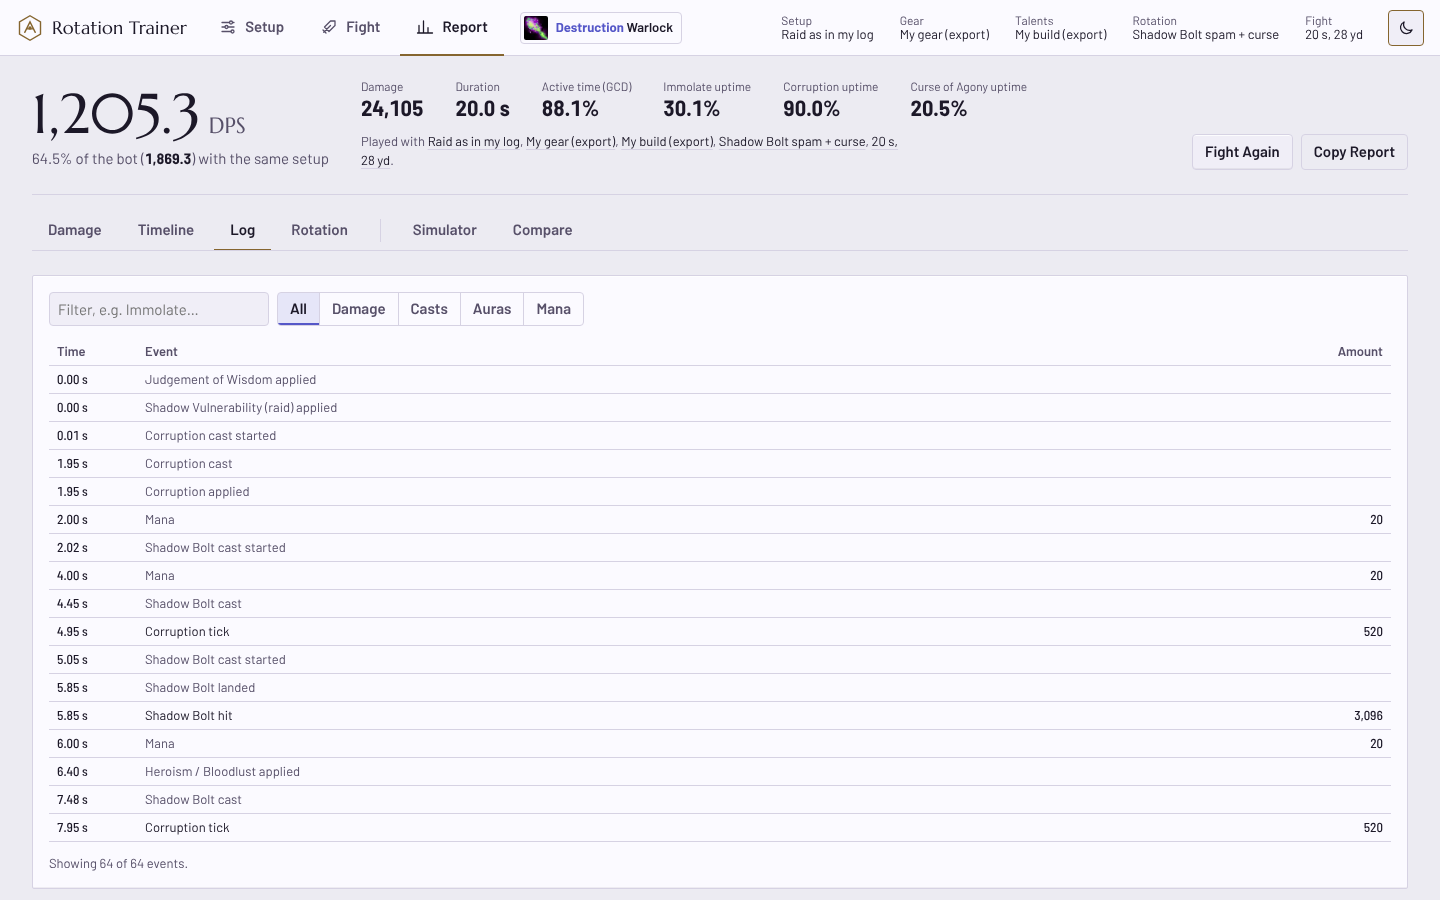
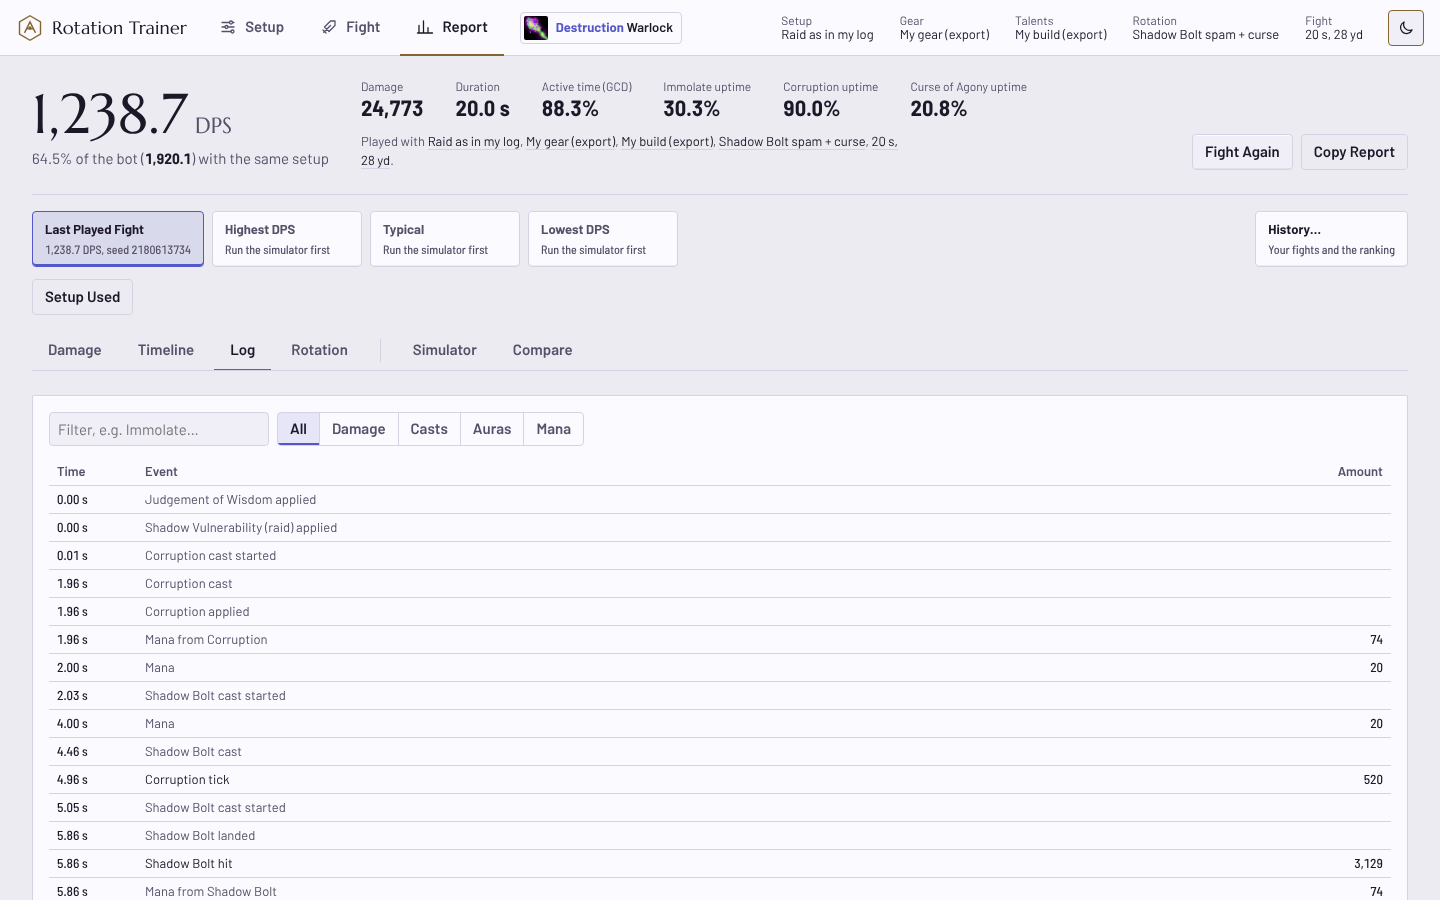
docs: fight timeline, key fights, history and setup used; screenshots
README (Polish) section on the Report's fight source, Moment by moment,
export, the Fights panel and Setup Used; data-sources Part K note on what
the per-second view can and cannot read from the log. screens.mjs: shots of
the moment view, a key fight, the Fights panel, a history fight and Setup
Used (1440 dark/light and 390 dark kept), and the Apply button name of the
scenario rows after their visible text.

Claude-Session: https://claude.ai/code/session_01CqwEqDpyULVnQakakeJLt5

diff --git a/README.md b/README.md
@@ -64,7 +64,9 @@ pasku.
   Report”. Zakładki: **Damage** (tabela czarów, buffy i przedmioty, wykres DPS, „What to look at”),
   **Timeline**, **Log** (filtr, wirtualizowana lista), **Rotation** (Ty vs bot), **Simulator**,
   **Compare** (porównanie scenariuszy na tych samych ziarnach). Bez walki działają tylko Simulator i Compare. Opuszczenie
-  raportu przerywa trwającą symulację.
+  raportu przerywa trwającą symulację. Nad zakładkami **Fight source** wybiera pokazywaną walkę
+  (ostatnia zagrana, kluczowe walki symulacji albo walka z historii), a **Setup Used** pokazuje
+  ustawienia tej walki (opis niżej, „Podgląd walki i kluczowe walki”).
 
 | Trasa | Widok |
 |---|---|
@@ -485,6 +487,48 @@ Simulatorze (Web Worker, migawka z chwili kliknięcia).
   gearem, buffami albo długością walki różnią się też tym. Żeby zmierzyć jedną zmianę reguły, zostaw
   resztę bez zmian (np. dwa scenariusze bez części setupu albo z tym samym setupem).
 
+## Podgląd walki i kluczowe walki (Report)
+
+- **Fight source** (nad zakładkami): **Last Played Fight** (ostatnia zagrana walka), **Highest DPS**,
+  **Typical** (DPS najbliższy średniej; remis: mniejszy numer przebiegu) i **Lowest DPS** ostatniej
+  symulacji w tej sesji, oraz **History…**. Każda opcja pokazuje DPS i ziarno („seed 3100366287,
+  run #107”). Walka z symulacji jest **odtwarzana** na żądanie z migawki ustawień symulacji (nie z
+  bieżącego setupu), więc jej log i DPS są bit w bit takie jak w symulatorze; logów symulacji nie
+  trzymamy. Wybrana walka napędza wszystkie zakładki walki (Damage, Timeline, Log, Rotation).
+  Walka z symulacji to walka bota, więc zamiast „% of the bot” nagłówek pokazuje **odchylenie od
+  średniej symulacji w σ** (np. „+3.1σ from the simulation’s mean”). Wynik bez kluczowych walk
+  (sprzed tej funkcji) ma opcje nieaktywne z podpowiedzią „Run the simulation again”. Koniec nowej
+  walki przełącza z powrotem na zagraną walkę.
+- **Timeline → Moment by moment**: tory i wykres DPS na górze to przegląd z **kursorem** (klik
+  wybiera sekundę, pasek pokazuje ją na obu). Suwak „Second”: ←/→ ±1 s, Shift ±5 s, Home/End; pole
+  „Go to (s)” (12.4 s to sekunda 12); przyciski „Jump to” (następna/poprzednia zmiana aury, użycie
+  przedmiotu, crit, odrzucenie z kolejki). Panel sekundy N (okno [N, N+1) s, wszystko z logu):
+  obrażenia sumą i per czar (trafienia, crity, chybienia, tiki), rozpoczęte, ukończone i przerwane
+  casty z czasem rzucania, kolejka (z powodem odrzucenia), użyte przedmioty, zyski many (Life Tap,
+  mikstury, regeneracja), zmiany aur (↑ up, ↻ refresh, ↓ down) i aury aktywne na początku sekundy
+  (Twoje i na celu, z pozostałym czasem). Log nie zapisuje many na koniec sekundy ani stacków, więc
+  ich nie pokazujemy. Przy zagranej walce wiersz „Bot: …” mówi, co bot zrobił w tej samej sekundzie
+  (to samo ziarno i setup). **All seconds**: wirtualizowana lista wszystkich sekund (DPS dotąd,
+  obrażenia, najmocniejszy czar, ikony buffów), filtry Damage / Auras / Items / Drops i wyszukiwanie
+  po nazwie; klik ustawia kursor. Zdarzenia przed pullem liczą się w sekundzie 0 (z oznaczeniem).
+- **Eksport**: „Copy This Second” i „Copy Fight Log (CSV)” (kolumny: second, damage, casts, auras
+  up, auras down, items, mana) kopiują do schowka, np. do wklejenia agentowi AI.
+- **History… (panel Fights)**: każda zagrana walka (z logiem; 20 najnowszych w ≤ 1,5 MB) i kluczowe
+  walki każdej symulacji (jako odnośniki: ziarno, numer przebiegu, migawka ustawień; 10 najnowszych
+  symulacji) są zapisywane pod osobnym kluczem `rotation-trainer:history:v1` i przeżywają
+  przeładowanie strony. **Highest DPS**: top 10 po DPS z filtrami (wszystkie / zagrane / symulacje,
+  ta sama długość walki — domyślnie włączone, bo DPS zależy od długości — i ten sam gear z
+  talentami). Klik „Open” otwiera walkę w tych samych zakładkach. Na liście: Pin (przypięta walka
+  nigdy nie wypada z limitu), Rename, Remove (z potwierdzeniem). Gdy przeglądarka odmówi zapisu
+  (pełny storage), Report pokazuje komunikat, a historia żyje do przeładowania.
+- **Setup Used** (przycisk nad zakładkami): migawka ustawień pokazywanej walki z chwili jej startu:
+  17 slotów (przedmiot, gemy, enchant, socket bonus), bonusy zestawów, efekty przedmiotów, „Stats at
+  the pull” tej walki, talenty z rangami (niezamodelowane oznaczone), buffy i consumables, priorytet
+  z regułami przedmiotów (przy walce z symulacji: średnie odpalenia reguł), długość, odległość,
+  opcje klasy i ziarno. **Use This Setup…** (z potwierdzeniem) robi z migawki bieżący setup tą samą
+  drogą co każda edycja (normalizacja, zapis), żeby odtworzyć i poprawiać walkę z historii. Gdy gear
+  wymaga bazy przedmiotów, a ta się wczytuje, panel pokazuje stan ładowania.
+
 ## Symulator
 
 Zakładka **Report → Simulator** gra setup **następnej walki** (gear, talenty, buffy, rotacja z
@@ -506,7 +550,7 @@ regułami przedmiotów, długość walki, odległość) wiele razy botem i pokaz
   mediana, percentyle 5/25/75/95, histogram, tabela czarów (udział, obrażenia, rzuty, crit, miss),
   średnie użycia przedmiotów, uptime DoT-ów i buffów, zużyta mana i liczba Life Tapów. „Copy
   result” kopiuje wynik jako tekst (bez schowka: tekst zaznaczony do skopiowania). Wynik nie jest
-  zapisywany.
+  zapisywany (jego kluczowe walki trafiają do historii, „History…” w Report).
 - **Co znaczy ±**: **σ** (odchylenie standardowe) to rozrzut pojedynczych walk: około 2/3 walk
   mieści się w średnia ± σ, 95% w ± 2σ; więcej walk go nie zmniejsza. **Błąd standardowy** średniej
   (σ/√runs) mówi, jak dokładnie znamy średnią: 4× więcej walk to 2× mniejszy błąd. Dwa setupy
@@ -579,6 +623,9 @@ sekcja „What the DPS excludes” w `docs/data-sources.md`.
   `docs/superpowers/plans/2026-11-03-rotation-scripts-and-scenarios.md`; format scenariusza dla ludzi
   i agentów AI: `docs/scenario-format.md`, schemat `docs/scenario.schema.json`, przykłady
   `docs/scenarios/`; gramatyka, zmienne i statystyka: `docs/data-sources.md`, „Part J”
+- Podgląd walki sekunda po sekundzie, kluczowe walki, historia i ranking: specyfikacja
+  `docs/superpowers/specs/2026-11-05-fight-timeline-and-key-fights-design.md`, plan
+  `docs/superpowers/plans/2026-11-05-fight-timeline-and-key-fights.md`; powtórka walk: `docs/data-sources.md`, „Part K”
 - Źródło każdej liczby (wowsims, Wowhead), założenia i otwarte pytania: `docs/data-sources.md`
 - Decyzje projektowe (kolejka czarów): `docs/decisions/`
 
@@ -593,5 +640,5 @@ sekcja „What the DPS excludes” w `docs/data-sources.md`.
 | `src/script` | język skryptów rotacji (bez Reacta): parser, walidacja, kompilator, konwerter z rotacji podstawowej |
 | `src/scenarios` | format scenariusza, biblioteka i jej zapis, przykłady, CLI (`scenario:validate`, `scenario:run`, `scenario:compare`) |
 | `src/sim-runner` | symulator wielu walk (bez Reacta): przebiegi, statystyki, odpalenia reguł, porównanie sparowane, Web Worker i jego klient |
-| `src/ui` | interfejs React: `shell/` (nagłówek, router, skróty), `state/` (TrainerProvider), `fight/` (arena, dock), `setup/` (sekcje, podsumowanie, ScriptEditor, ScenariosPanel), `report/` i `charts/` (raport, ComparePanel, wykresy), `theme/` (tokeny, fonty, motyw) oraz edytory Setup (SetupPanel, GearPanel, TalentsPanel, ItemUseEditor, CombatTextSettings, SimulatorPanel) |
+| `src/ui` | interfejs React: `shell/` (nagłówek, router, skróty), `state/` (TrainerProvider, historia walk), `fight/` (arena, dock), `setup/` (sekcje, podsumowanie, ScriptEditor, ScenariosPanel), `report/` i `charts/` (raport, Moment by moment, Fights, Setup Used, ComparePanel, wykresy), `theme/` (tokeny, fonty, motyw) oraz edytory Setup (SetupPanel, GearPanel, TalentsPanel, ItemUseEditor, CombatTextSettings, SimulatorPanel) |
 | `tests` | testy Vitest: `engine`, `data`, `bot`, `setup`, `script`, `scenarios`, `sim-runner`, `ui` oraz `smoke.test.ts` (`fixtures`: dane referencyjne, m.in. logi bota sprzed zmian) |

diff --git a/docs/data-sources.md b/docs/data-sources.md
@@ -1705,3 +1705,4 @@ No game numbers. Fight timeline and key fights Task K1 (spec `docs/superpowers/s
 - **No other number changes**: the selection reads the values the aggregation already has and adds one field. Pinned in the tests: `hash(JSON.stringify(result))` without `keyFights`, for two requests, equals the hash taken on the code before key fights (`fc6b351`).
 - **Replay** (`replayFight(request, run): { log, dps, seed, durationMs }`, `src/sim-runner/replay.ts`): the simulator keeps no logs; a fight depends only on its request and run number, so a key fight's log is rebuilt on demand. The replay goes through the simulator's own code: `prepareRun` (validation, `normalizeSetup`, `applySetup`) and `playFight` (run.ts), the one function that builds a fight (`createFightSimulation` with the run's seed and the request's spell queue window) and plays it with `runBot` and the setup's priority list (item-use rules and script rules included); `runWithSeed` calls the same function. The bot's press observer, which only the simulator passes, is read-only, so the fight is the same with or without it. Tested: the replay DPS equals the recorded `KeyFight.dps` bit for bit (`Object.is`) for all three key fights, at windows 400 and 0, with the default setup, the raid-log preset, item-use rules (`long300`), a gear that needs the item database and two script scenarios; the replay log equals a direct `createFightSimulation` + `runBot` with `mixSeed(seed, run)` event for event. The caller must pass the request the simulation was run with (the stored config, not the current setup). `run` outside [0, runs) is a RangeError; an invalid request throws `prepareRun`'s error. One fight takes a few ms, so the UI replays on the main thread, not in the worker.
 - The CLI (`npm run scenario:run`) output is unchanged: it does not list the key fights.
+- **What the Report shows of a fight** (Tasks K2, K3; `src/ui/report/{secondsModel,reportFight,MomentByMoment,SetupUsed}.ts(x)`): every number of "Moment by moment" is read from the fight's log, never from the engine: second N is [N s, N+1 s), pre-pull events count in second 0, an event at the fight's last ms in the last second. The log records mana **gains** (`mana` events: Life Tap, potions, regeneration) but not spell costs, so the mana at the end of a second is not derivable and not shown; it has no stack counts either, so aura changes are shown as up / refreshed / down. A simulation's key fight in the Report is replayed with `prepareRun` + `playFight` from the simulation's own setup snapshot (the same path as `replayFight`); its header shows the deviation from the simulation's mean in standard deviations, `(dps - meanDps) / stdDev`, not a share of the bot (it is the bot's fight). Tested: the per-second damage, completed casts and mana gains recomputed independently from the raw log equal the model, and their sum equals the fight's `damageTotal` (`tests/ui/report/moment-by-moment.test.tsx`).
